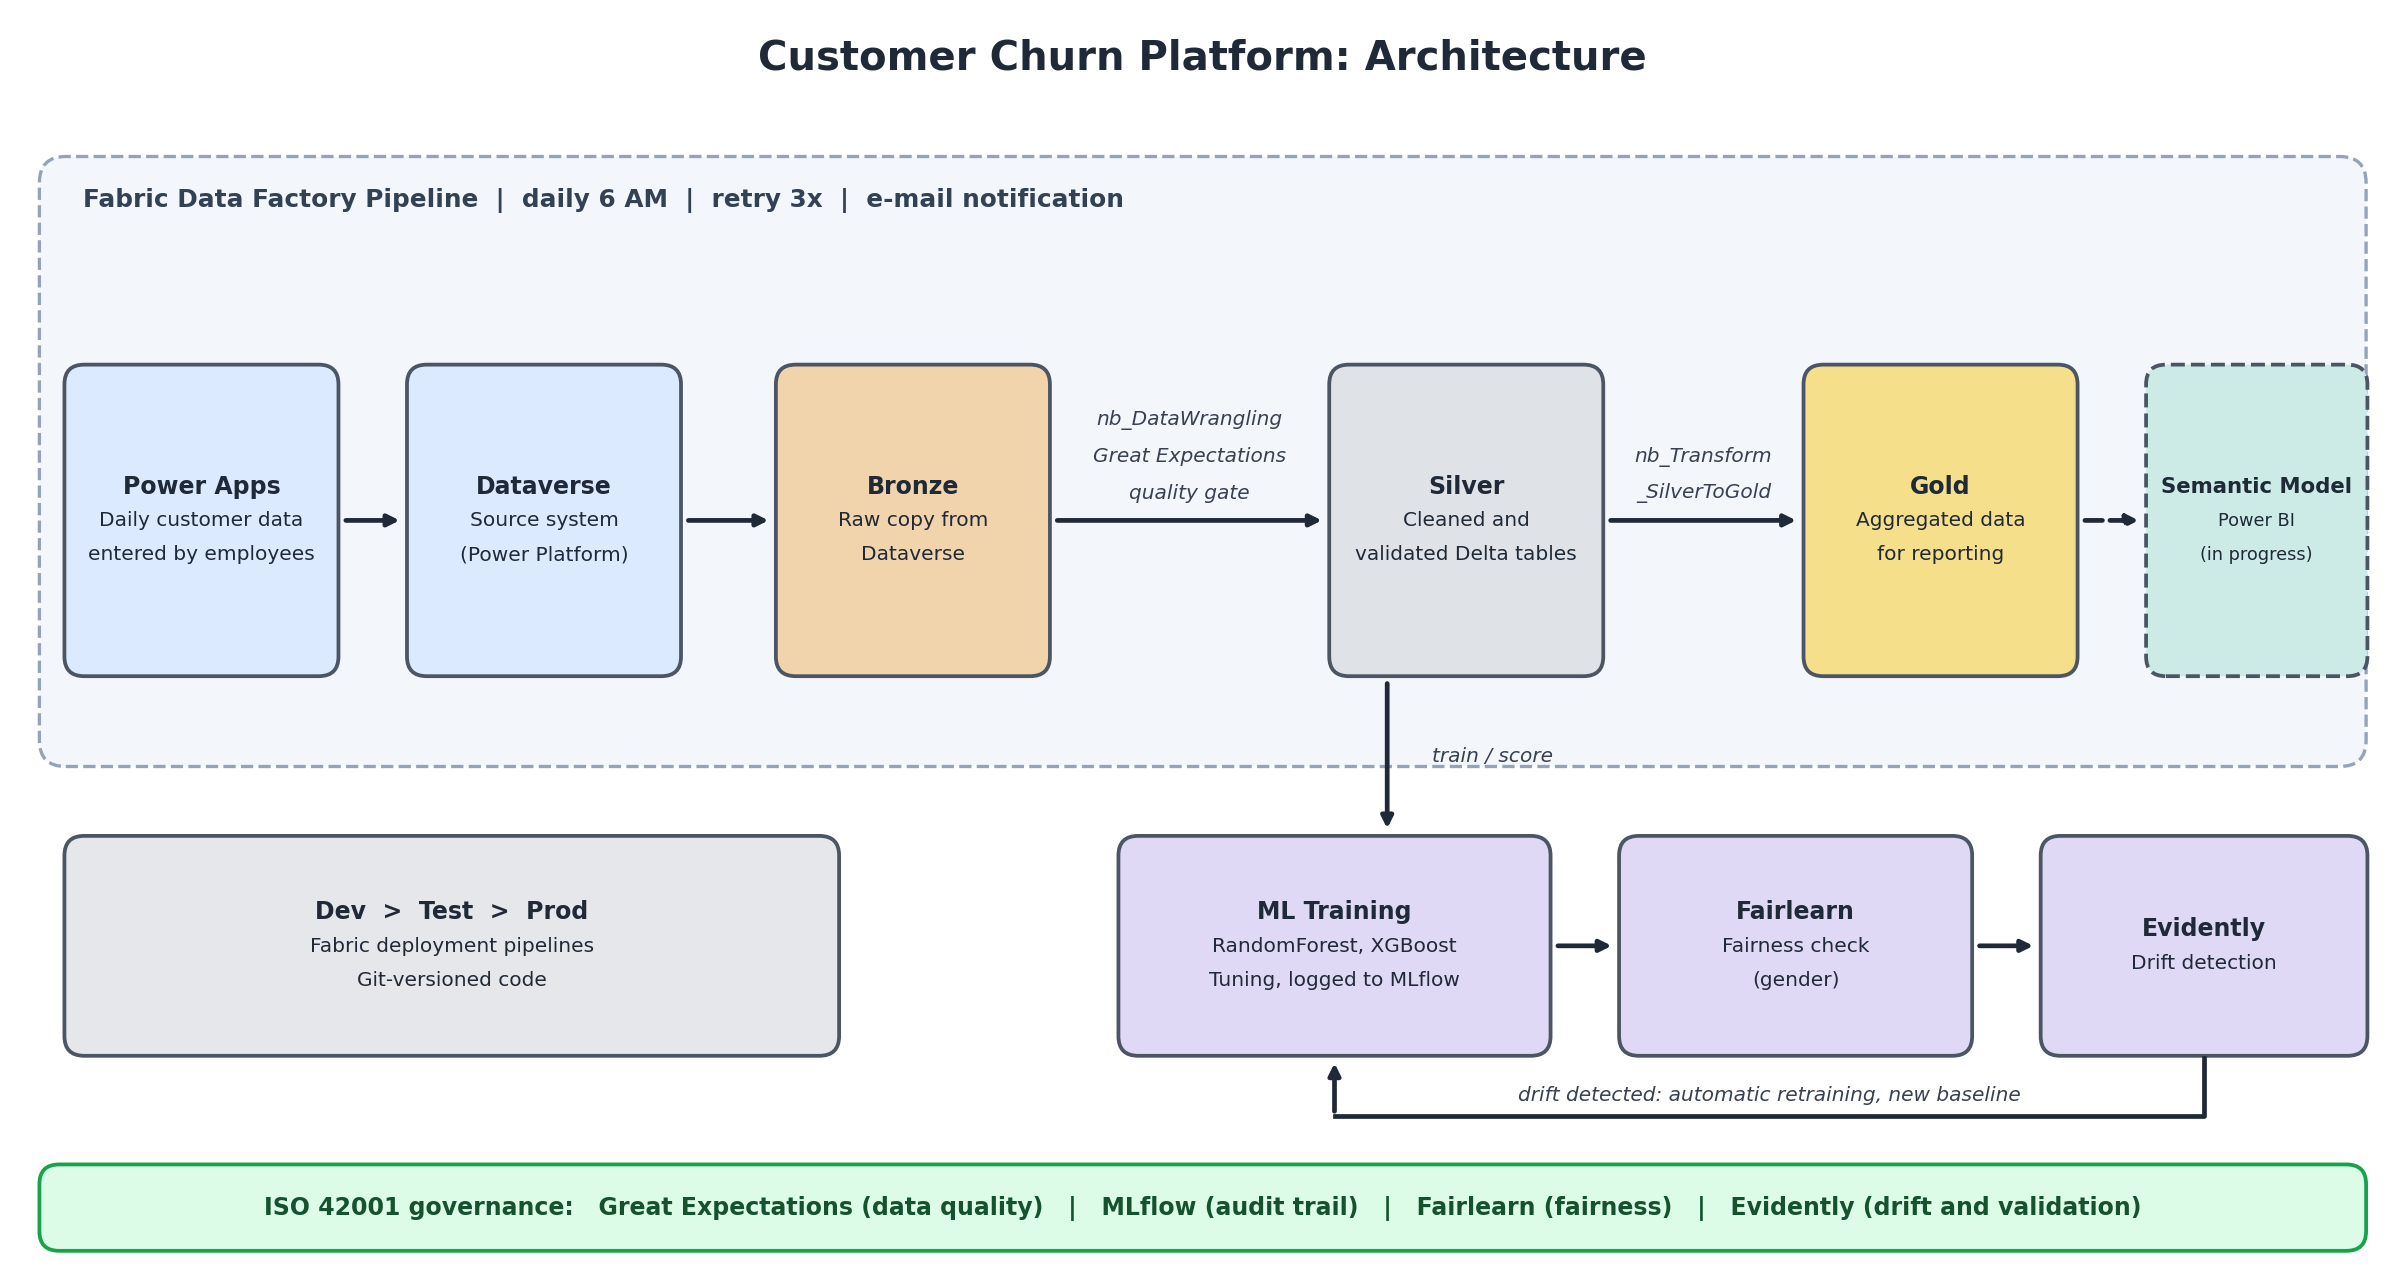
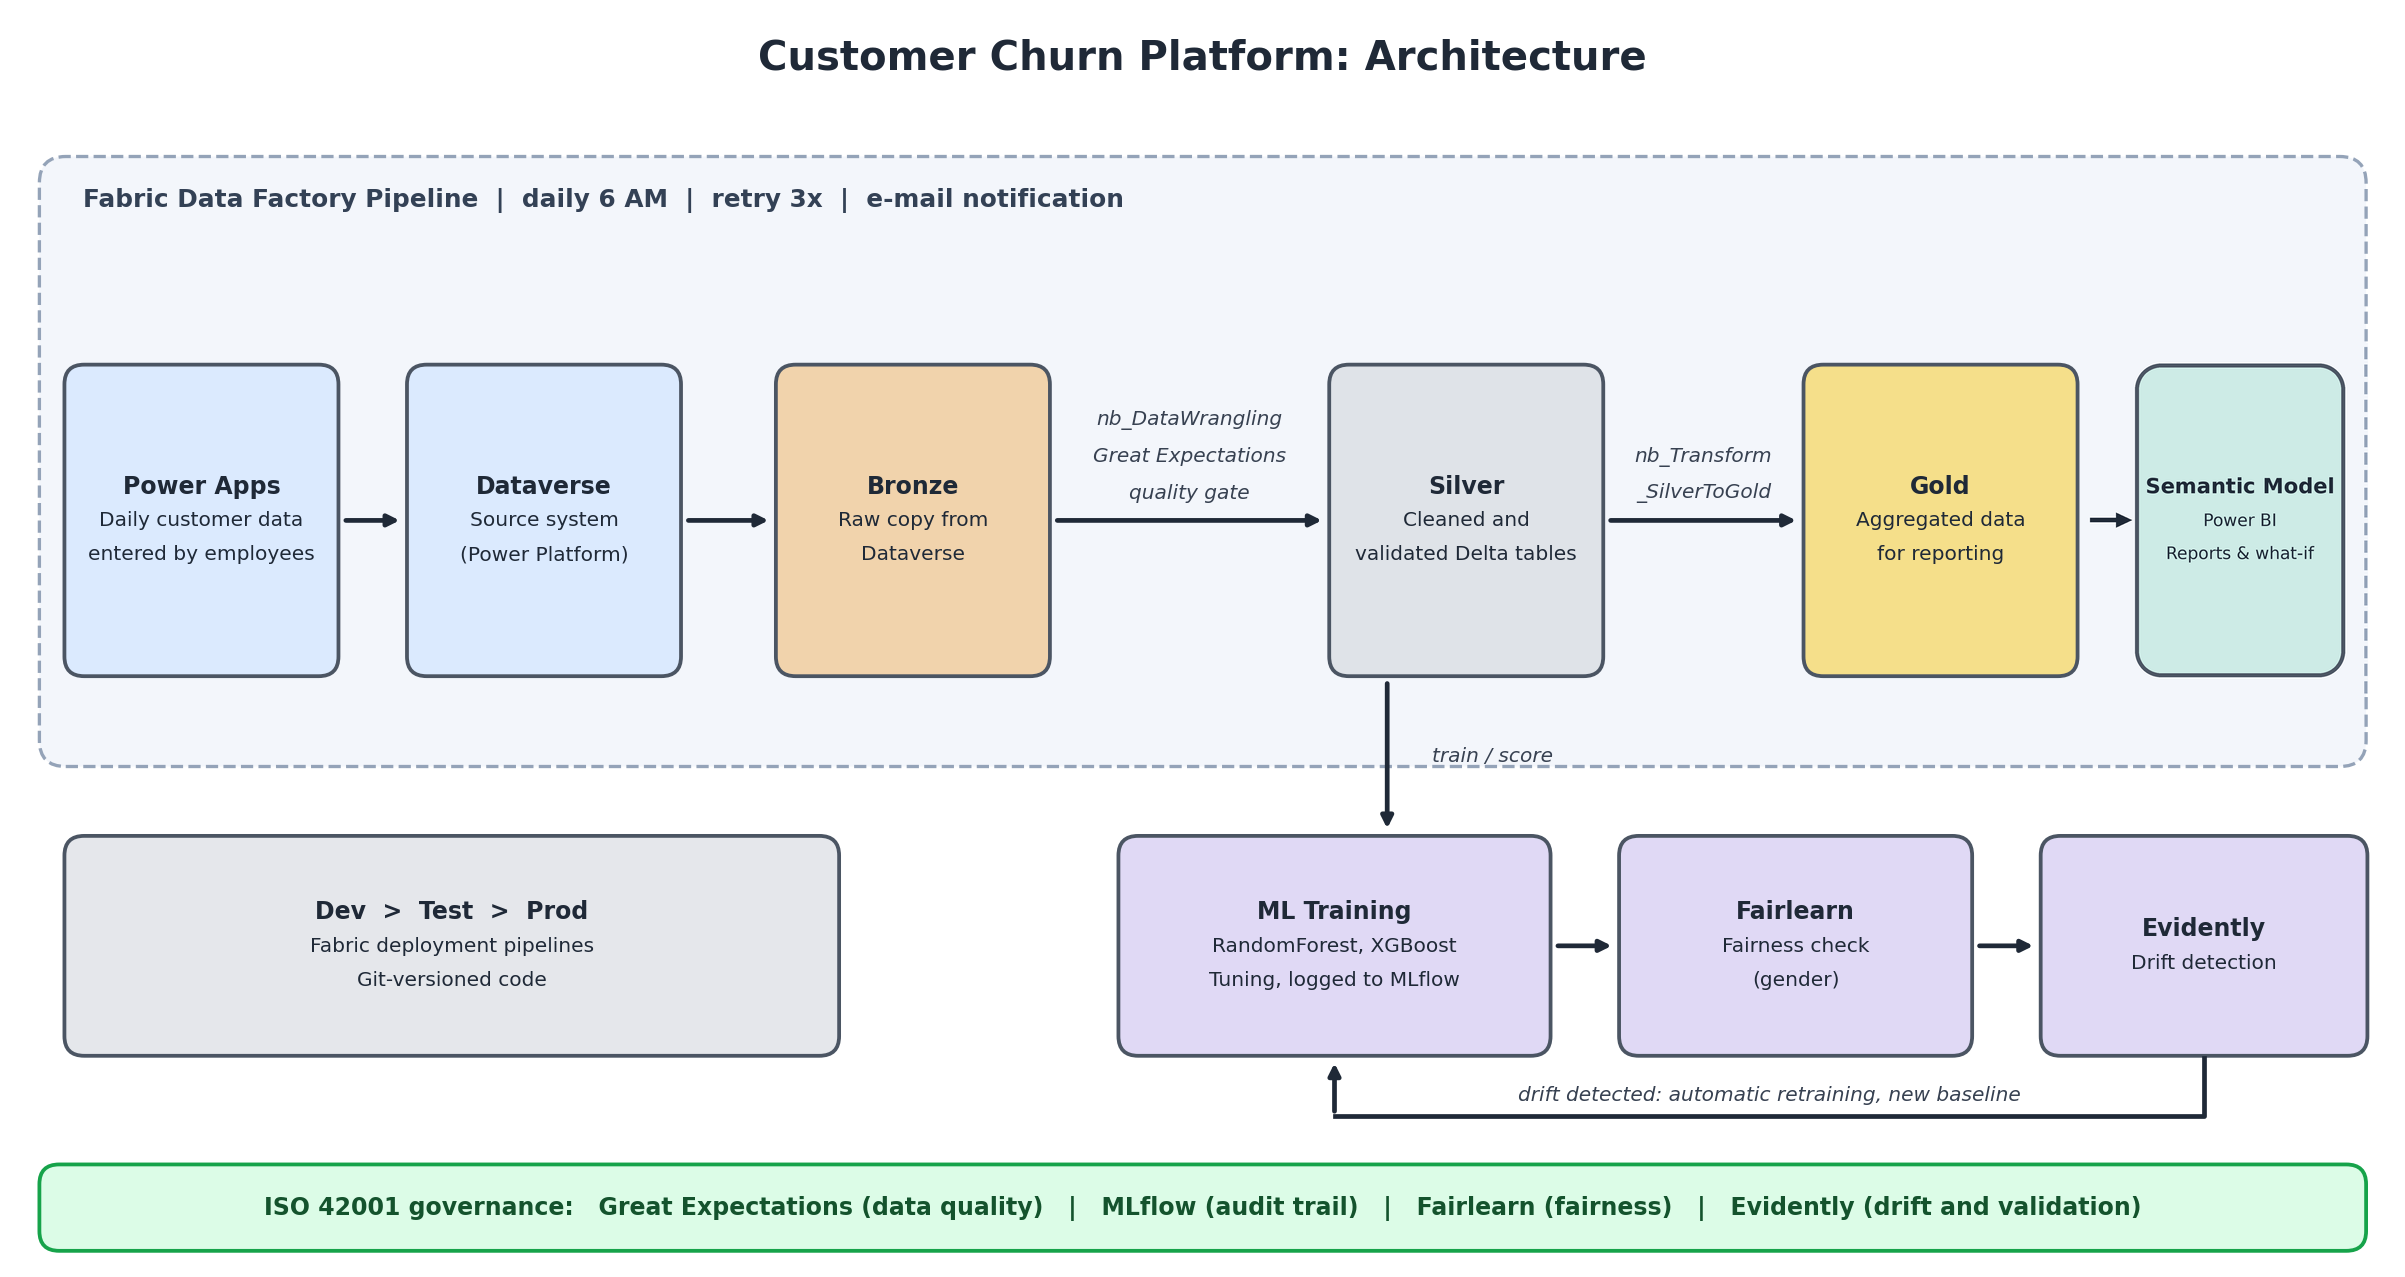
commit_20260930_3

Changed region(s): [[0.8732, 0.2749, 0.9979, 0.5497]]

diff --git a/README.md b/README.md
@@ -4,6 +4,10 @@
 
 An end-to-end, automated churn solution: employees capture customer data in a Power App, a daily Fabric pipeline validates it, checks the model for drift, retrains when needed and refreshes the Power BI reports. Built on the public IBM Telco dataset, so this is a **portfolio project on demo data**, not a production system.
 
+**Demo:**
+
+![Demo](images/churn_demo_en.png)
+
 ## Architecture at a Glance
 
 ![Architecture](images/architecture.png)
